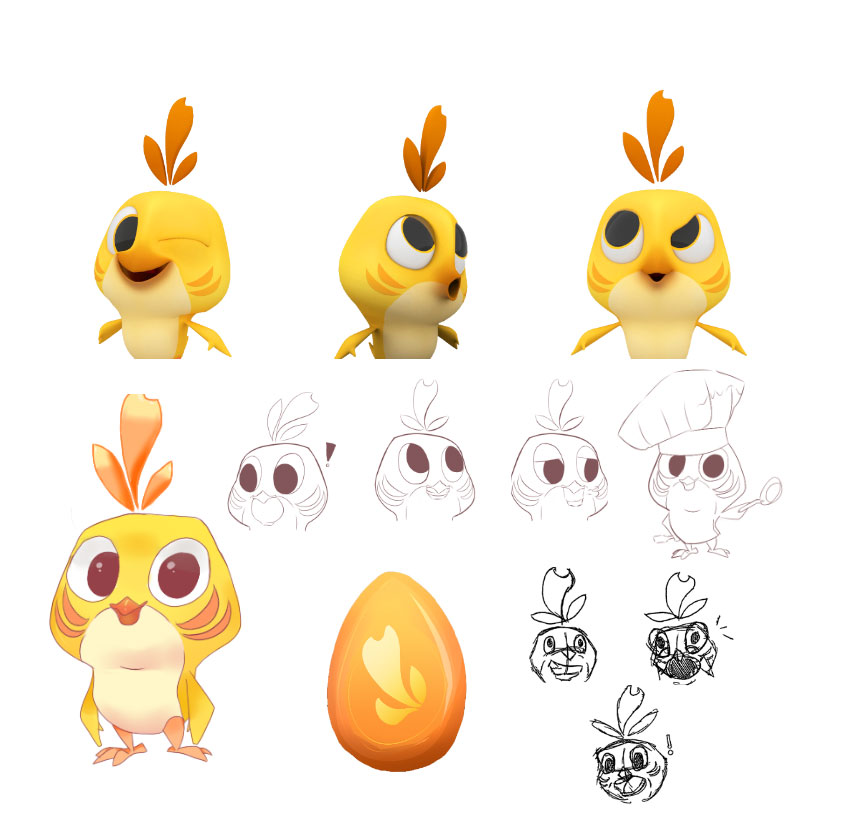
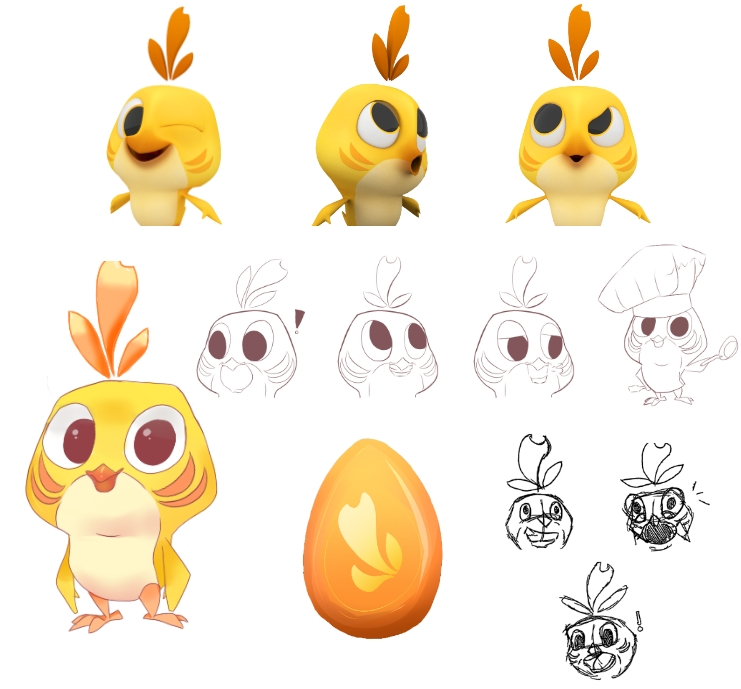
mise à jour page realisation 3D

diff --git a/Projet-Chickies.html b/Projet-Chickies.html
@@ -15,26 +15,49 @@
 </head>
 
 <body>
-    <div class="home">
+    <div class="page-wrapper">
         <header>
-            <nav class="menu">
-                <div class="menu__container_icone">
-                    <a href="#"><img src="img/icone/icon-linkedin.png" alt="linkedin"></a>
-                    <a href="#"><img src="img/icone/icon-twitter.png" alt="twitter"></a>
-                    <a href="#"><img src="img/icone/icon-facebook.png" alt="facebook"></a>
+            <div class="section-wrapper section-header">
+                <div class="section-container">
+                    <nav class="header__navigation">
+                        <ul class="header__socials">
+                            <li>
+                                <a href="#"><img src="img/icone/icon-linkedin.png" alt="linkedin"></a>
+                            </li>
+                            <li>
+                                <a href="#"><img src="img/icone/icon-twitter.png" alt="twitter"></a>
+                            </li>
+                            <li>
+                                <a href="#"><img src="img/icone/icon-facebook.png" alt="facebook"></a>
+                            </li>
+                        </ul>
+                        <ul class="header__menu">
+                            <li>
+                                <a href="./index.html">Accueil</a>
+                            </li>
+                            <li>
+                                <a href="./page__a-propos.html">à propos</a>
+                            </li>
+                            <li>
+                                <a href="">Contact</a>
+                            </li>
+                            <li>
+                                <a href="./realisation-graphiques.html">Réalisations Graphiques</a>
+                            </li>
+                            <li>
+                                <a href="./illustration-projet.html">Illustrations</a>
+                            </li>
+                            <li>
+                                <a href="">Réalisations 3D</a>
+                            </li>
+                        </ul>
+                    </nav>
                 </div>
-                <ul>
-                    <li><a href="./index.html">Accueil</a>
-                        <a href="./page__a-propos.html">à propos</a>
-                        <a href="">Contact</a>
-                        <a href="./realisation-graphiques.html">Réalisations Graphiques</a>
-                        <a href="./illustration-projet.html">Illustrations</a>
-                        <a href="">Réalisations 3D</a>
-                    </li>
-                </ul>
-            </nav>
+            </div>
         </header>
-       
+        <div class="page-container">
+            <div class="section-wrapper">
+                <div class="section-container">
                     <section class="chickies-section">
                         <div class="chickies-section__container">
                             <div class="title-head">
@@ -42,11 +65,15 @@
                                     <h1 class="projettitle">Chickies</h1>
                                     <h2 class="projetsubtitle">Conceptions </h2>
                                 </div>
-                                <div class="button-back"></div>
+                                <div class="section-return-button">
+                                    <a href="#" class="return-button">
+                                        <span>retour</span>
+                                    </a>
+                                </div>
                             </div>
                             <div class="chickies-section__projet">
                                 <div class="characters-image">
-                                    <img src="img/page-chickies/chicky-characters.png" alt="Image 3D du personngae Chicky">
+                                    <img src="img/page-chickies/chicky-characters.jpg" alt="Image 3D du personngae Chicky">
                                 </div>
                                 <div class="characters-texte">
                                     <h3>Chicky</h3>
@@ -246,9 +273,16 @@
                             </div>
                         </div>
                     </section>
-        <footer class="footer">
-            <h3>© 2022 HERITIER MELISSA UI DESIGN</h3>
-        </footer>
+                    </div>
+                    </div>
+                    </div>
+                    <div class="section-wrapper section-footer">
+                        <div class="section-container">
+                            <footer class="footer">
+                                <h3>© 2022 HERITIER MELISSA UI DESIGN</h3>
+                            </footer>
+                        </div>
+                    </div>
     </div>
 </body>
 

diff --git a/css/Categories.css b/css/Categories.css
@@ -1,35 +1,40 @@
-.realisation-graphique{
+.realisation-graphique {
     display: flex;
-    justify-content: flex-start;
+    justify-content: space-around;
     align-items: center;
     align-content: space-between;
     flex-wrap: wrap;
     margin-top: 10px;
+    width: 100%;
 }
 
-.realisation-graphique__container{
-    width: 50%;
+.realisation-graphique__container {
     display: flex;
     margin-top: 20px;
     flex-wrap: wrap;
-    justify-content: space-between;
+    justify-content: center;
     padding-bottom: 10px;
+    width: 909px;
+    height: 294px;
+    margin-left: 10px;
 }
 
-.realisation-graphique__container__image{
-    width: 49%;
+.realisation-graphique__container__image {
+    width: 500px;
+    height: 294px;
 }
 
 .realisation-graphique__container__image img{
-    width: 100%;
-    height: 100%;
     margin: 0 auto;
-   display: block;
+    display: block;
+    width: 500px;
+    height: 294px;
 }
 
-.realisation-graphique__container__texte{
-    width: 51%;
+.realisation-graphique__container__texte {
     background-color: #F6F6F6;
+    width: 389px;
+    height: 294px;
 }
 
 .realisation-graphique__container__texte h1{
